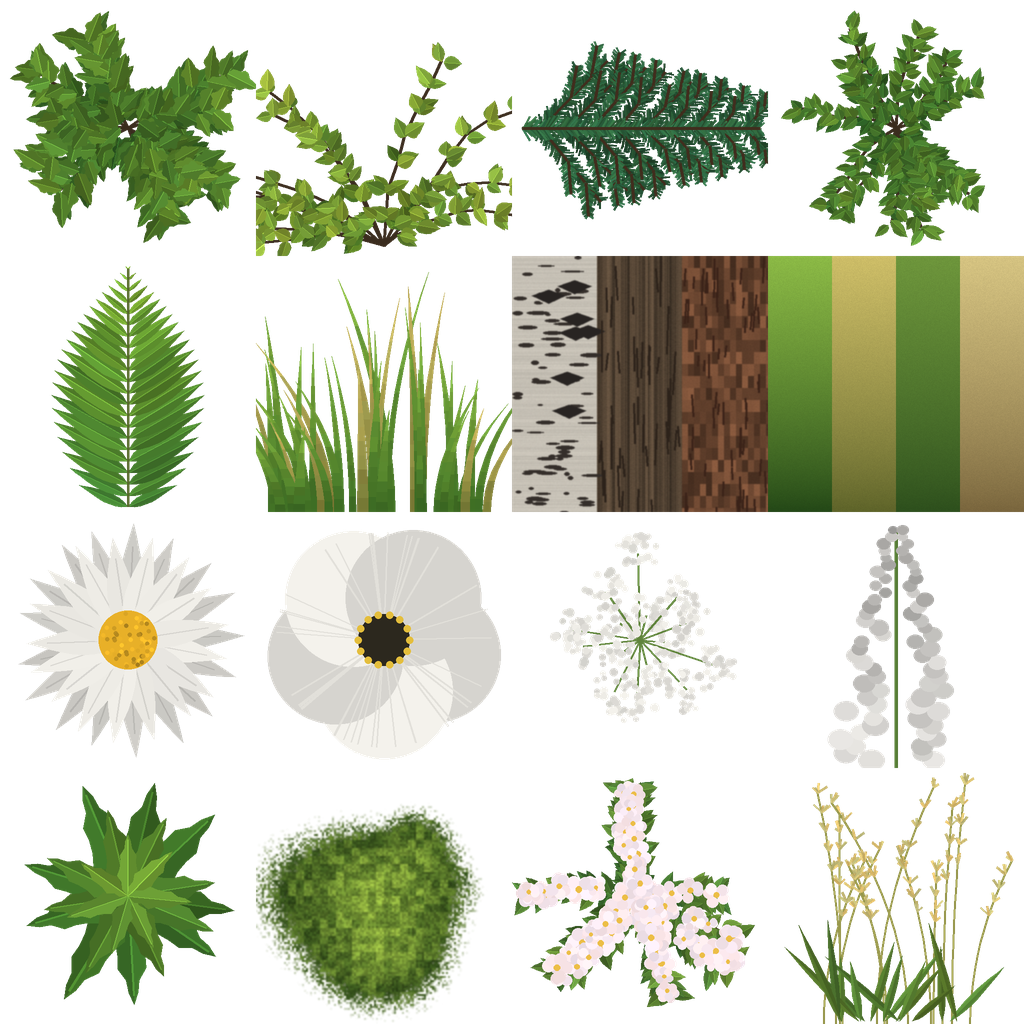
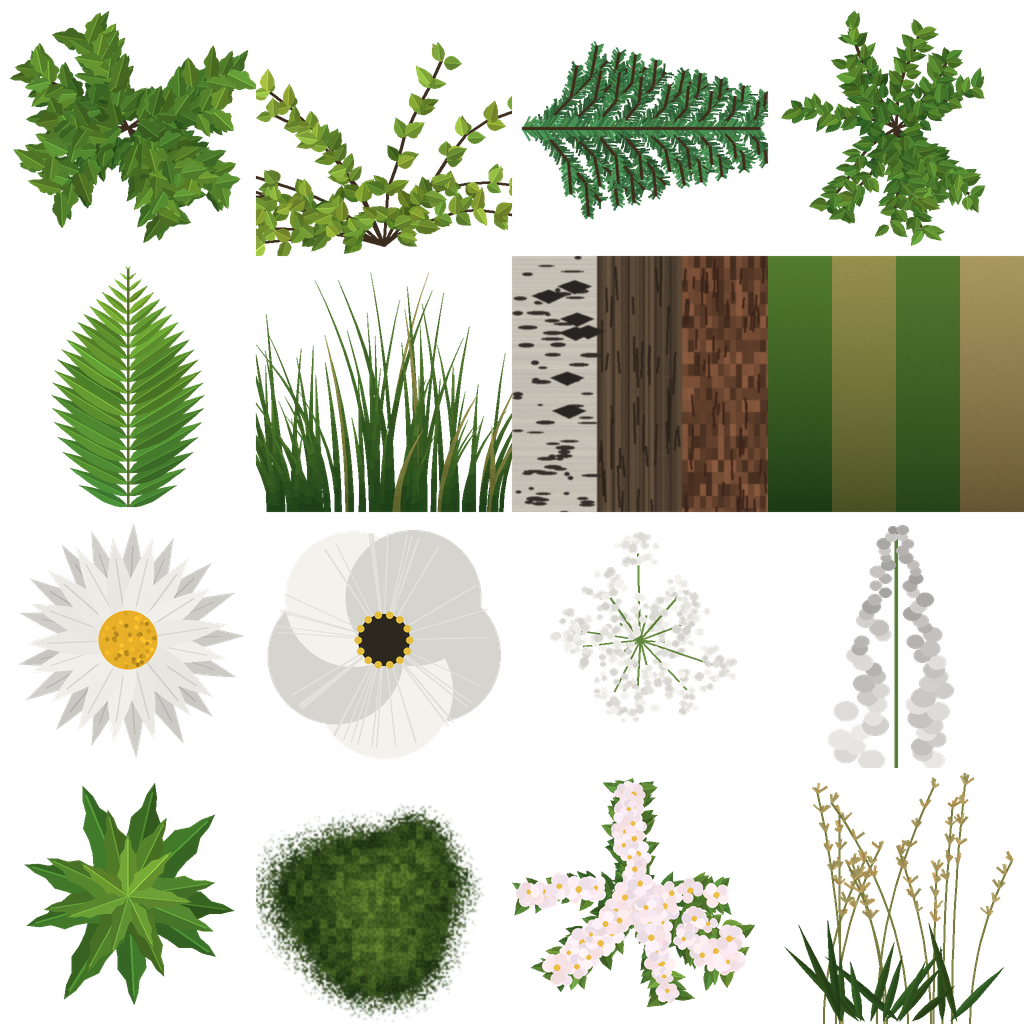
Regrowth: grass as patches of fine blades, lobed crowns, light through leaves, moss in cracks; kit notes
Claude-Session: https://claude.ai/code/session_01RfzdfG5ndbW1K3y1fxfznF

diff --git a/art/models/flora/build_flora.py b/art/models/flora/build_flora.py
@@ -59,7 +59,7 @@ class Mb:
         self.f.append((a, b, c))
         self.f.append((a, c, d))
 
-    def card(self, centre, right, up, tile, col, n=None, n_spread=0.0, uvr=(0, 0, 1, 1), sway_up=0.0):
+    def card(self, centre, right, up, tile, col, n=None, n_spread=0.0, uvr=(0, 0, 1, 1), sway_up=0.0, ao_up=0.0):
         """A textured quad: centre, half-extent vectors. col = (r, g, b, a); sway_up adds weight
         along the card's up (a hanging or standing card moves more at its free end)."""
         centre, right, up = V(centre, float), V(right, float), V(up, float)
@@ -71,6 +71,7 @@ class Mb:
             v = uvr[1] + (uvr[3] - uvr[1]) * (sy * 0.5 + 0.5)
             cc = list(col)
             cc[0] = col[0] + sway_up * (sy * 0.5 + 0.5)
+            cc[1] = min(1.0, col[1] + ao_up * (sy * 0.5 + 0.5))
             ids.append(self.vert(p, nn + nrm(p - centre) * n_spread, tile_uv(tile, u, v), cc))
         self.quad(*ids)
 
@@ -147,16 +148,30 @@ class Mb:
 
 # --- small plants (about 1 unit tall, scaled per instance) ---------------------------------------
 
+def grass_cards(m, r, n_mid, n_out, tile=5):
+    """A patch of sward about 1.4 units across: crossed blade cards in the middle and satellites
+    leaning out round them (so it reads from the play camera above as well as from the side)."""
+    for k in range(n_mid):
+        a = k * math.pi / n_mid + r.uniform(-0.2, 0.2)
+        m.card((0, 0, 0.5), V([math.cos(a), math.sin(a), 0]) * 0.55, (0, 0, 0.5), tile, (0.0, 0.5, r.random(), 0.5), n=(0, 0, 1), sway_up=0.34, ao_up=0.5)
+    for k in range(n_out):
+        a = math.tau * k / n_out + r.uniform(-0.4, 0.4)
+        out = V([math.cos(a), math.sin(a), 0])
+        side = nrm(np.cross(out, (0, 0, 1)))
+        lean = r.uniform(0.3, 0.55)
+        up = nrm(V([0, 0, 1.0]) + out * lean) * r.uniform(0.36, 0.48)
+        c = out * r.uniform(0.38, 0.55) + up
+        m.card(c, side * r.uniform(0.42, 0.55), up, tile, (0.0, 0.5, r.random(), 0.5), n=(0, 0, 1), sway_up=0.34, ao_up=0.5)
+
+
 def grass_a(seed):
     r = random.Random(seed)
     m = Mb()
-    for b in range(10):
-        a = math.tau * b / 10 + r.uniform(-0.3, 0.3)
+    grass_cards(m, r, 3, 3)
+    for b in range(6):  # a few real blades standing clear of the cards
+        a = math.tau * b / 6 + r.uniform(-0.4, 0.4)
         out = V([math.cos(a), math.sin(a), 0])
-        m.blade(out * r.uniform(0.02, 0.3), out, r.uniform(0.55, 1.0), r.uniform(0.035, 0.055), r.uniform(0.1, 0.5), 1 if r.random() < 0.25 else 0, 0.5, 0.45)
-    for k in range(2):  # the clump's body: crossed blade cards
-        a = k * math.pi / 2 + 0.4
-        m.card((0, 0, 0.36), V([math.cos(a), math.sin(a), 0]) * 0.5, (0, 0, 0.36), 5, (0.0, 0.75, 0.3, 0.5), n=(0, 0, 1), sway_up=0.3)
+        m.blade(out * r.uniform(0.1, 0.6), out, r.uniform(0.7, 1.1), r.uniform(0.014, 0.024), r.uniform(0.15, 0.5), 1 if r.random() < 0.3 else 0, 0.5, 0.42)
     return m
 
 
@@ -165,19 +180,18 @@ def grass_b(seed):
     m = Mb()
     for k in range(3):
         a = k * math.pi / 3 + 0.2
-        m.card((0, 0, 0.5), V([math.cos(a), math.sin(a), 0]) * 0.42, (0, 0, 0.5), 15, (0.0, 0.8, 0.6, 0.5), n=(0, 0, 1), sway_up=0.55)
-    for b in range(5):
-        a = math.tau * b / 5 + r.uniform(-0.3, 0.3)
+        m.card((0, 0, 0.5), V([math.cos(a), math.sin(a), 0]) * 0.42, (0, 0, 0.5), 15, (0.0, 0.6, r.random(), 0.5), n=(0, 0, 1), sway_up=0.55, ao_up=0.4)
+    for b in range(4):
+        a = math.tau * b / 4 + r.uniform(-0.3, 0.3)
         out = V([math.cos(a), math.sin(a), 0])
-        m.blade(out * r.uniform(0.03, 0.2), out, r.uniform(0.35, 0.6), 0.04, r.uniform(0.15, 0.4), 0, 0.5, 0.35)
+        m.blade(out * r.uniform(0.03, 0.2), out, r.uniform(0.35, 0.6), 0.022, r.uniform(0.15, 0.4), 0, 0.5, 0.35)
     return m
 
 
 def grass_lod(seed):
+    r = random.Random(seed)
     m = Mb()
-    for k in range(3):
-        a = k * math.pi / 3 + 0.5
-        m.card((0, 0, 0.4), V([math.cos(a), math.sin(a), 0]) * 0.55, (0, 0, 0.4), 5, (0.0, 0.75, 0.4, 0.5), n=(0, 0, 1), sway_up=0.3)
+    grass_cards(m, r, 2, 3)
     return m
 
 
@@ -232,7 +246,7 @@ def fern(seed):
 def flower(seed, kind):
     r = random.Random(seed)
     m = Mb()
-    stems = {"daisy": 4, "poppy": 3, "umbel": 3, "lupin": 3, "aster": 6}[kind]
+    stems = {"daisy": 5, "poppy": 4, "umbel": 3, "lupin": 4, "aster": 7}[kind]
     for k in range(stems):
         a = math.tau * k / stems + r.uniform(-0.4, 0.4)
         out = V([math.cos(a), math.sin(a), 0])
@@ -242,11 +256,11 @@ def flower(seed, kind):
             c = base + out * 0.04 + V([0, 0, h * 0.5])
             for q in range(2):
                 b = a + q * math.pi / 2
-                m.card(c, V([math.cos(b), math.sin(b), 0]) * 0.13, (0, 0, h * 0.5), 11, (0.0, 0.95, r.random(), 1.0), n=(0, 0, 1), sway_up=0.3)
+                m.card(c, V([math.cos(b), math.sin(b), 0]) * 0.19, (0, 0, h * 0.5), 11, (0.0, 0.95, r.random(), 1.0), n=(0, 0, 1), sway_up=0.3)
             continue
         h = {"daisy": r.uniform(0.6, 0.9), "poppy": r.uniform(0.75, 1.0), "umbel": r.uniform(0.8, 1.0), "aster": r.uniform(0.3, 0.5)}[kind]
         top = m.blade(base, out, h, 0.018, r.uniform(0.06, 0.22), 2, 0.0, 0.34, segs=1)
-        size, tile, tilt = {"daisy": (0.17, 8, 0.75), "poppy": (0.2, 9, 0.6), "umbel": (0.27, 10, 1.05), "aster": (0.13, 8, 0.9)}[kind]
+        size, tile, tilt = {"daisy": (0.24, 8, 0.8), "poppy": (0.28, 9, 0.65), "umbel": (0.36, 10, 1.05), "aster": (0.18, 8, 0.95)}[kind]
         flower_head(m, top + V([0, 0, 0.01]), out, size * r.uniform(0.85, 1.1), tile, r, tilt)
     for k in range(3):  # a few leaves at the foot
         a = r.uniform(0, math.tau)

diff --git a/art/models/flora/build_atlas.py b/art/models/flora/build_atlas.py
@@ -118,7 +118,7 @@ def pine(seed):
             for s in (-1, 1):
                 na = a + s * r.uniform(0.6, 1.1)
                 l2 = ln * r.uniform(0.7, 1.15) * (1.0 - 0.35 * t)
-                c = jitter((38 * shade, 84 * shade, 52 * shade), r, 0.22, 0.06)
+                c = jitter((54 * shade, 108 * shade, 62 * shade), r, 0.22, 0.06)
                 d.line([(x, y), (x + math.cos(na) * l2, y + math.sin(na) * l2)], fill=rgb(c), width=max(2, int(T * 0.008)))
         d.line([(x0, y0), (x1, y1)], fill=(64, 46, 30, 255), width=max(2, int(T * 0.012)))
     x0, y0, x1, y1 = T * 0.04, T * 0.5, T * 0.97, T * 0.5
@@ -163,15 +163,15 @@ def blades(seed):
     im = Image.new("RGBA", (T, T), (0, 0, 0, 0))
     d = ImageDraw.Draw(im)
     bl = []
-    for i in range(46):
-        x = T * r.uniform(0.06, 0.94)
-        h = T * r.uniform(0.35, 0.97) * (1.0 - 0.5 * abs(x / T - 0.5))
-        lean = r.uniform(-0.3, 0.3) + (x / T - 0.5) * 0.7
+    for i in range(84):
+        x = T * r.uniform(0.04, 0.96)
+        h = T * r.uniform(0.3, 0.97) * (1.0 - 0.45 * abs(x / T - 0.5))
+        lean = r.uniform(-0.3, 0.3) + (x / T - 0.5) * 0.6
         bl.append((h, x, lean))
     bl.sort(reverse=True)
     for h, x, lean in bl:
-        w = T * r.uniform(0.012, 0.024)
-        dry = r.random() < 0.22
+        w = T * r.uniform(0.007, 0.014)
+        dry = r.random() < 0.14
         segs = 10
         L, R = [], []
         for s in range(segs + 1):
@@ -181,8 +181,8 @@ def blades(seed):
             ww = w * (1.0 - t ** 1.6)
             L.append((cx - ww, cy))
             R.append((cx + ww, cy))
-        base = (58, 104, 34) if not dry else (120, 122, 52)
-        tip = (128, 176, 62) if not dry else (196, 180, 96)
+        base = (30, 64, 24) if not dry else (84, 92, 40)
+        tip = (80, 120, 44) if not dry else (146, 142, 72)
         for s in range(segs):
             t = (s + 0.5) / segs
             c = tuple(base[i] + (tip[i] - base[i]) * t for i in range(3))
@@ -200,18 +200,18 @@ def seedgrass(seed):
         h = T * r.uniform(0.6, 0.95)
         lean = r.uniform(-0.35, 0.35)
         pts = [(x + lean * h * (s / 12) ** 2, T - h * s / 12) for s in range(13)]
-        d.line(pts, fill=(150, 150, 74, 255), width=4)
+        d.line(pts, fill=(112, 116, 56, 255), width=4)
         # the head: small spikelets down the top third
         for s in range(8, 13):
             px, py = pts[s]
             for k in range(4):
                 a = -math.pi / 2 + r.uniform(-1.0, 1.0)
                 l2 = T * r.uniform(0.02, 0.045)
-                d.line([(px, py), (px + math.cos(a) * l2, py + math.sin(a) * l2)], fill=rgb(jitter((206, 186, 112), r, 0.1)), width=5)
+                d.line([(px, py), (px + math.cos(a) * l2, py + math.sin(a) * l2)], fill=rgb(jitter((168, 148, 88), r, 0.1)), width=5)
     for i in range(16):  # low leaves
         x = T * r.uniform(0.25, 0.75)
         a = -math.pi / 2 + r.uniform(-0.9, 0.9)
-        draw_leaf(d, x, T * 0.99, a, T * r.uniform(0.2, 0.42), T * 0.03, jitter((92, 132, 50), r), rib=False)
+        draw_leaf(d, x, T * 0.99, a, T * r.uniform(0.2, 0.42), T * 0.03, jitter((50, 86, 32), r), rib=False)
     return im
 
 
@@ -257,7 +257,7 @@ def bark():
 def ramps():
     """Four vertical ramps (v = 0 at the tile's bottom): blade, dry blade, stem, seed/tan."""
     px = np.zeros((T, T, 4), np.float32)
-    cols = [((34, 70, 22), (140, 186, 70)), ((92, 98, 40), (206, 190, 104)), ((44, 78, 28), (110, 150, 60)), ((120, 100, 60), (214, 196, 130))]
+    cols = [((26, 56, 20), (84, 124, 46)), ((70, 78, 34), (150, 144, 76)), ((36, 66, 24), (84, 120, 48)), ((100, 84, 50), (170, 152, 96))]
     rs = np.random.RandomState(9)
     t = np.linspace(1.0, 0.0, T)[:, None, None]  # row 0 = top = tip
     for i, (a, b) in enumerate(cols):
@@ -380,8 +380,8 @@ def moss(seed):
     sp = np.repeat(np.repeat(rs.rand(n // 4, n // 4), 4, axis=0), 4, axis=1)
     sp2 = np.repeat(np.repeat(rs.rand(n // 16, n // 16), 16, axis=0), 16, axis=1)
     v = 0.55 + 0.5 * sp + 0.25 * sp2 + 0.35 * f
-    a = np.array((56, 92, 30), np.float32)
-    b = np.array((134, 164, 58), np.float32)
+    a = np.array((34, 62, 22), np.float32)
+    b = np.array((84, 112, 40), np.float32)
     col = a + (b - a) * np.clip(f * 0.8 + sp2 * 0.5 - 0.2, 0, 1)[..., None]
     col *= v[..., None] * 0.8
     alpha = np.clip((f - 0.2 + (sp - 0.5) * 0.2) * 9.0, 0, 1) * 255

diff --git a/docs/ADJUSTING.md b/docs/ADJUSTING.md
@@ -173,6 +173,18 @@ Check with `godot --headless --path . -- --fresh --orbit --no-intro --life-clean
 and its lit lights). More dev hooks are listed at the top of `planet/sites/life_dev.gd`. Tests:
 `tests/test_town_life.gd`, `tests/test_cell_verdure.gd`.
 
+The plants themselves (art stage 7) are a kit built in code: `python3 art/models/flora/build_atlas.py`
+paints `flora_atlas.png` (leaf sprays, blades, bark, flower heads), `blender -b --python
+art/models/flora/build_flora.py` writes `flora.glb` (grass, moss, weeds, ferns, five flowers, three
+bushes, four tree species at three ages with far twins), then `godot --headless --import --path .`.
+`python3 art/models/flora/preview_flora.py OUT` renders the kit alone (Cycles, no GL);
+`res://tools/flora_lineup.tscn -- --out=PREFIX` (rendered) shows it under the game's own shader,
+`plants/flora.gdshader`: `wind` (0 = still), `leaf_gain`/`gain` (brightness), `cut` (alpha cut).
+What stands where, and at which stage of the green, is in `plants/cell_verdure.gd` ("The plants":
+`TREE_AT`, `FAR_RINGS`, `PIONEERS`, the scales in `_write_block`). `ground.tufts_per_cell` now counts
+grass patches (each about a metre across). `--life-green=F` (dev) shows every cell at F of its
+green, to look at an early stage. Test: `tests/test_flora_kit.gd`.
+
 ## Pacing, prices and gates (v6pace)
 
 Measure after a change: `flock /tmp/gf-autoplay.lock godot --headless --path . -- --fresh --orbit --autoplay --time-scale=8 --quit-after=2700`
